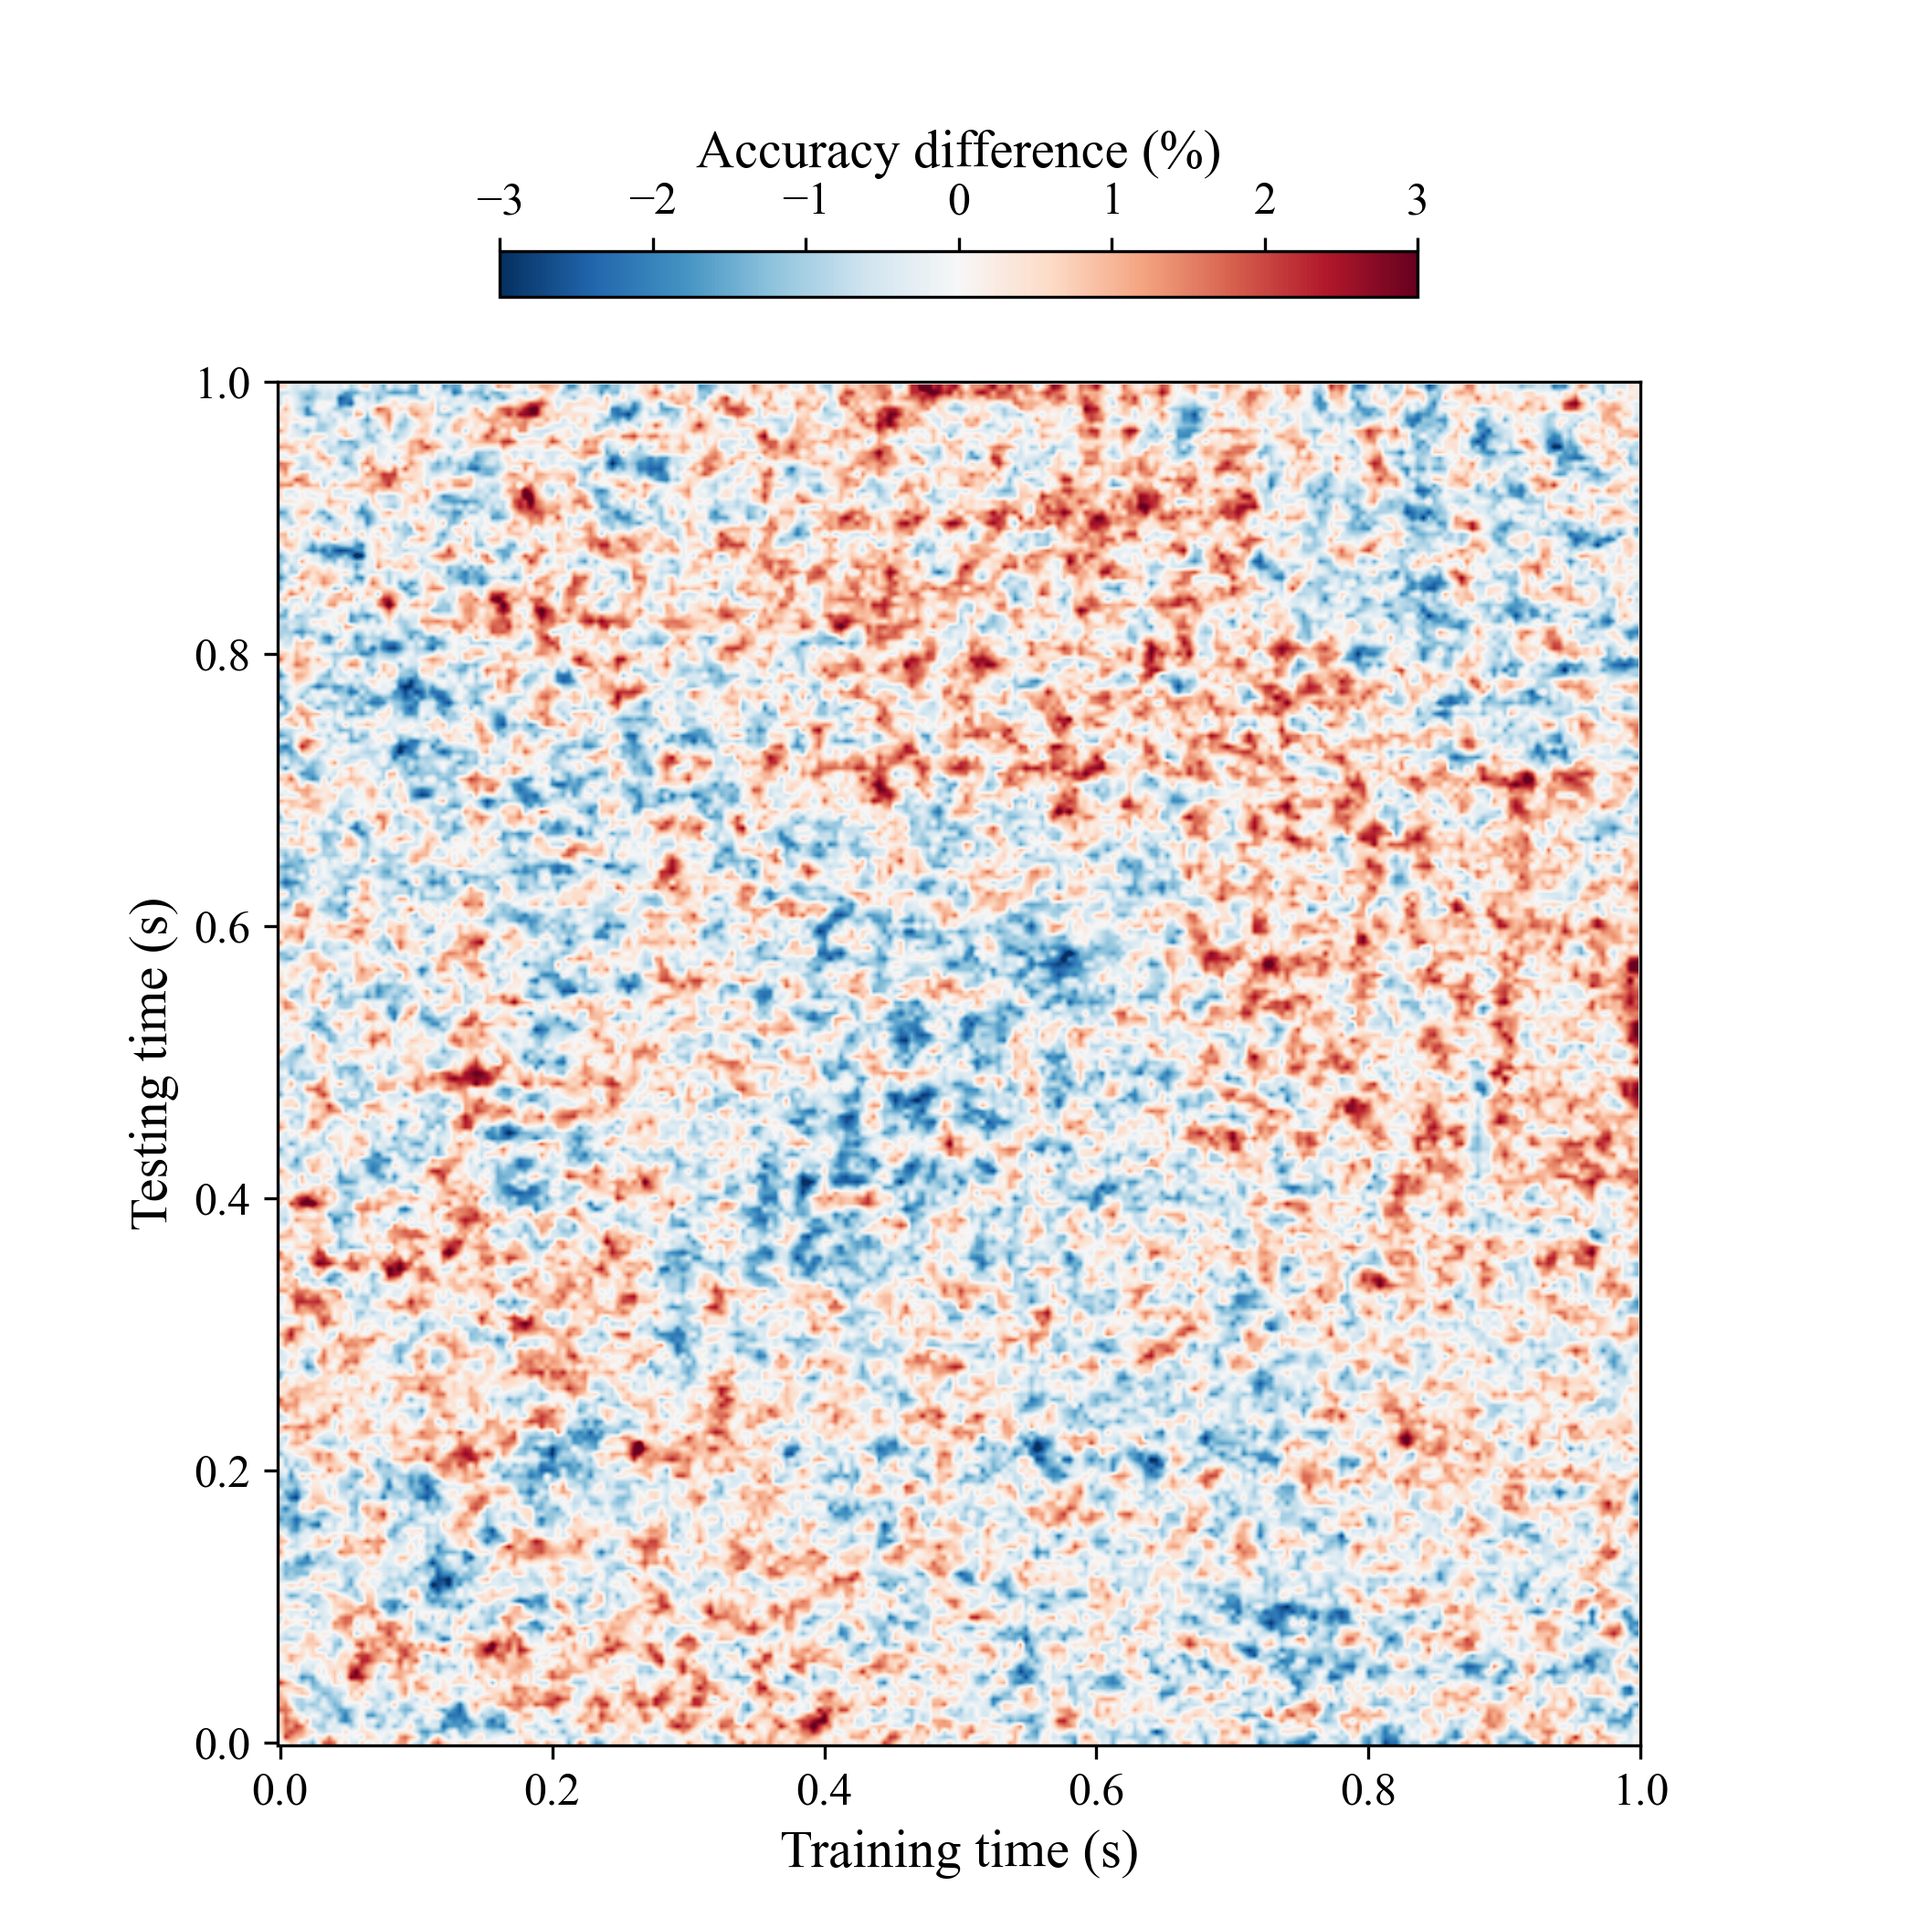
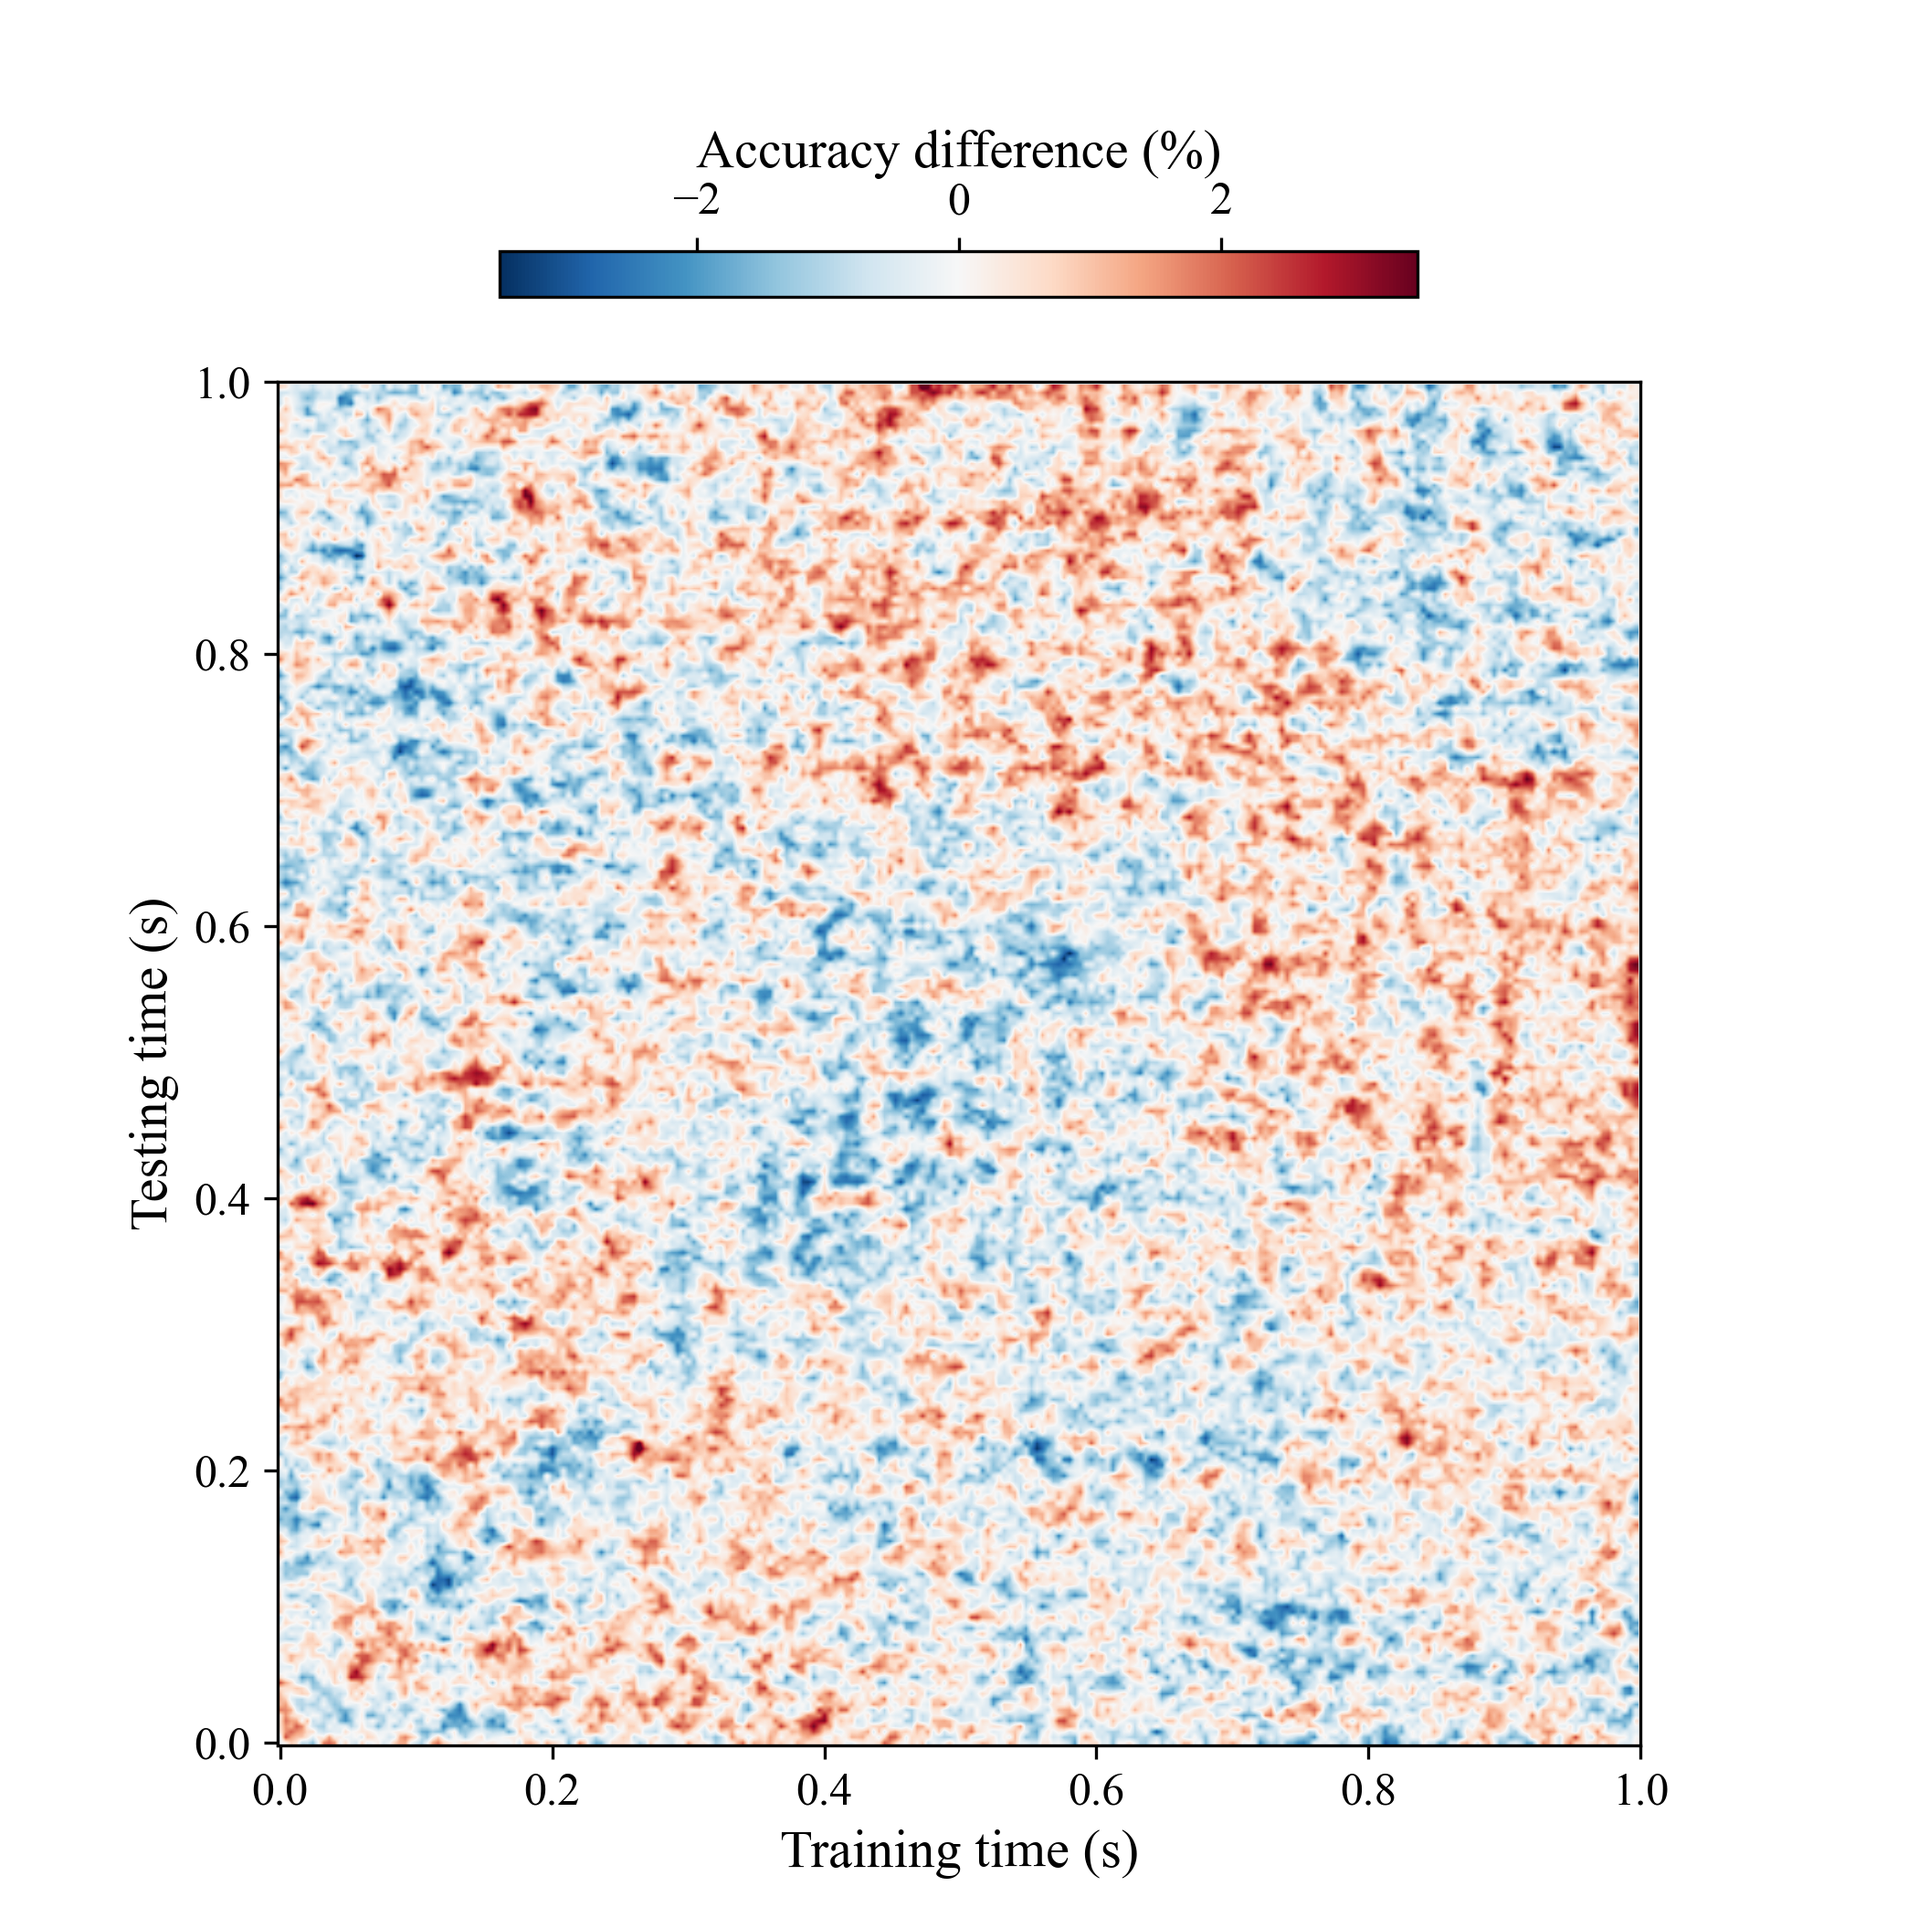
diagonal difference plot within session cross

diff --git a/decoding/plots.py b/decoding/plots.py
@@ -88,6 +88,8 @@ def plot_tgm_diagonal(lbo, prop, savepath = None):
     if savepath is not None:
         plt.savefig(savepath)
 
+    plt.close()
+
 def plot_tgm_sesh(lso, props, savepath = None):
     vmin = 0.30
     vmax = 0.70
@@ -109,8 +111,6 @@ def plot_tgm_sesh(lso, props, savepath = None):
         a.set_xticks(np.arange(0, 251, step=50), [0. , 0.2, 0.4, 0.6, 0.8, 1. ])
         a.set_xlim(0, 250)
     
-    # times the y ticks by 100 
-    ## get current y ticks
 
     fig.supxlabel('Time (s)')
     fig.supylabel('Time (s)')
@@ -119,6 +119,8 @@ def plot_tgm_sesh(lso, props, savepath = None):
 
     if savepath is not None:
         plt.savefig(savepath)
+    
+    plt.close()
 
 def plot_diagonal_sesh(lso, props, savepath: None):
     fig, ax = plt.subplots(1, 2, figsize = (8, 4), sharey='row', sharex = True) 
@@ -178,6 +180,8 @@ def tgm_cross(cross, savepath = None):
     if savepath is not None:
         plt.savefig(savepath)
 
+    plt.close()
+
 def diagonal_cross(cross, savepath = None):
     vmin = 0.40
     vmax = 0.70
@@ -209,6 +213,8 @@ def diagonal_cross(cross, savepath = None):
 
     if savepath is not None:
         plt.savefig(savepath)
+    
+    plt.close()
 
 def plot_tgm_difference(a1, a2, savepath = None, cross = False):
     vmin = -0.025*100
@@ -247,6 +253,8 @@ def plot_tgm_difference(a1, a2, savepath = None, cross = False):
     if savepath is not None:
         plt.savefig(savepath)
 
+    plt.close()
+
 def plot_diagonal_difference(a1, a2, savepath = None, cross = False):
 
     if a1.shape and a2.shape != (7, 7, 250, 250):
@@ -278,6 +286,7 @@ def plot_diagonal_difference(a1, a2, savepath = None, cross = False):
     if savepath is not None:
         plt.savefig(savepath)
 
+    plt.close()
 
 def average_tgm(a1, chance, vmin = 35, vmax = 65, savepath = None, cross = False):
     if not cross:
@@ -307,6 +316,8 @@ def average_tgm(a1, chance, vmin = 35, vmax = 65, savepath = None, cross = False
 
     if savepath is not None:
         plt.savefig(savepath)
+
+    plt.close()
 
 def plot_all_diagonal(a1, savepath = None, ymin = 35, ymax = 65, cross = False):
     if not cross:
@@ -339,7 +350,8 @@ def plot_all_diagonal(a1, savepath = None, ymin = 35, ymax = 65, cross = False):
     
     if savepath is not None:
         plt.savefig(savepath)
-
+    
+    plt.close()
 
 def within_sesh_cross_tgm(X, chance, savepath = None, vmin = 35, vmax = 65):
 
@@ -362,10 +374,12 @@ def within_sesh_cross_tgm(X, chance, savepath = None, vmin = 35, vmax = 65):
 
     if savepath is not None:
         plt.savefig(savepath)
+    
+    plt.close()
 
 def within_sesh_cross_tgm_diff(X1, X2, savepath = None):
-    vmin = -0.03*100
-    vmax = 0.03*100
+    vmin = -0.035*100
+    vmax = 0.035*100
     # get diagonal = same session for testing and training
     mean_a1 = np.mean(X1.diagonal(), axis = 2)
     mean_a2 = np.mean(X2.diagonal(), axis = 2)
@@ -388,7 +402,28 @@ def within_sesh_cross_tgm_diff(X1, X2, savepath = None):
 
     if savepath is not None:
         plt.savefig(savepath)
+    
+    plt.close()
 
+
+def within_sesh_diag_diff(X1, X2, savepath = None):
+    mean_a1 = np.mean(X1.diagonal(), axis = 2)
+    mean_a2 = np.mean(X2.diagonal(), axis = 2)
+
+    fig, axs = plt.subplots(1, 1, figsize = (7, 4))
+
+    axs.plot(np.arange(0, 250), mean_a1.diagonal()*100 - mean_a2.diagonal()*100, linewidth = 2, alpha = 0.7)
+    axs.axhline(y = 0, color = 'k', linewidth = 1, linestyle = '--', alpha = 0.4)
+    axs.set_xlabel('Time (s)')
+    axs.set_ylabel('Accuracy difference (%)')
+
+
+    # change x ticks
+    axs.set_xticks(np.arange(0, 251, step=50), [0. , 0.2, 0.4, 0.6, 0.8, 1. ])
+
+    plt.tight_layout()
+    if savepath is not None:
+        plt.savefig(savepath)
 
 if __name__ in '__main__':
     lbo = np.load('./accuracies/accuracies_LDA_lbo.npy', allow_pickle=True) # leave batch out
@@ -403,7 +438,7 @@ if __name__ in '__main__':
     within_sesh_cross_tgm(cross, avg_chance, savepath = f'./plots/cross_within_tgm_source.png', vmin = 35, vmax = 65)
     within_sesh_cross_tgm(cross_sens, avg_chance, savepath = f'./plots/cross_within_tgm_sens.png', vmin = 35, vmax = 65)
     within_sesh_cross_tgm_diff(cross_sens, cross, savepath = f'./plots/cross_within_tgm_diff.png')
-
+    within_sesh_diag_diff(cross_sens, cross, savepath = f'./plots/cross_within_diag_diff.png')
     # within session decoding cv plots 
     plot_tgm_diagonal(lbo, propb,  savepath = f'./plots/tgm_diagonal_within_session.png')
 
